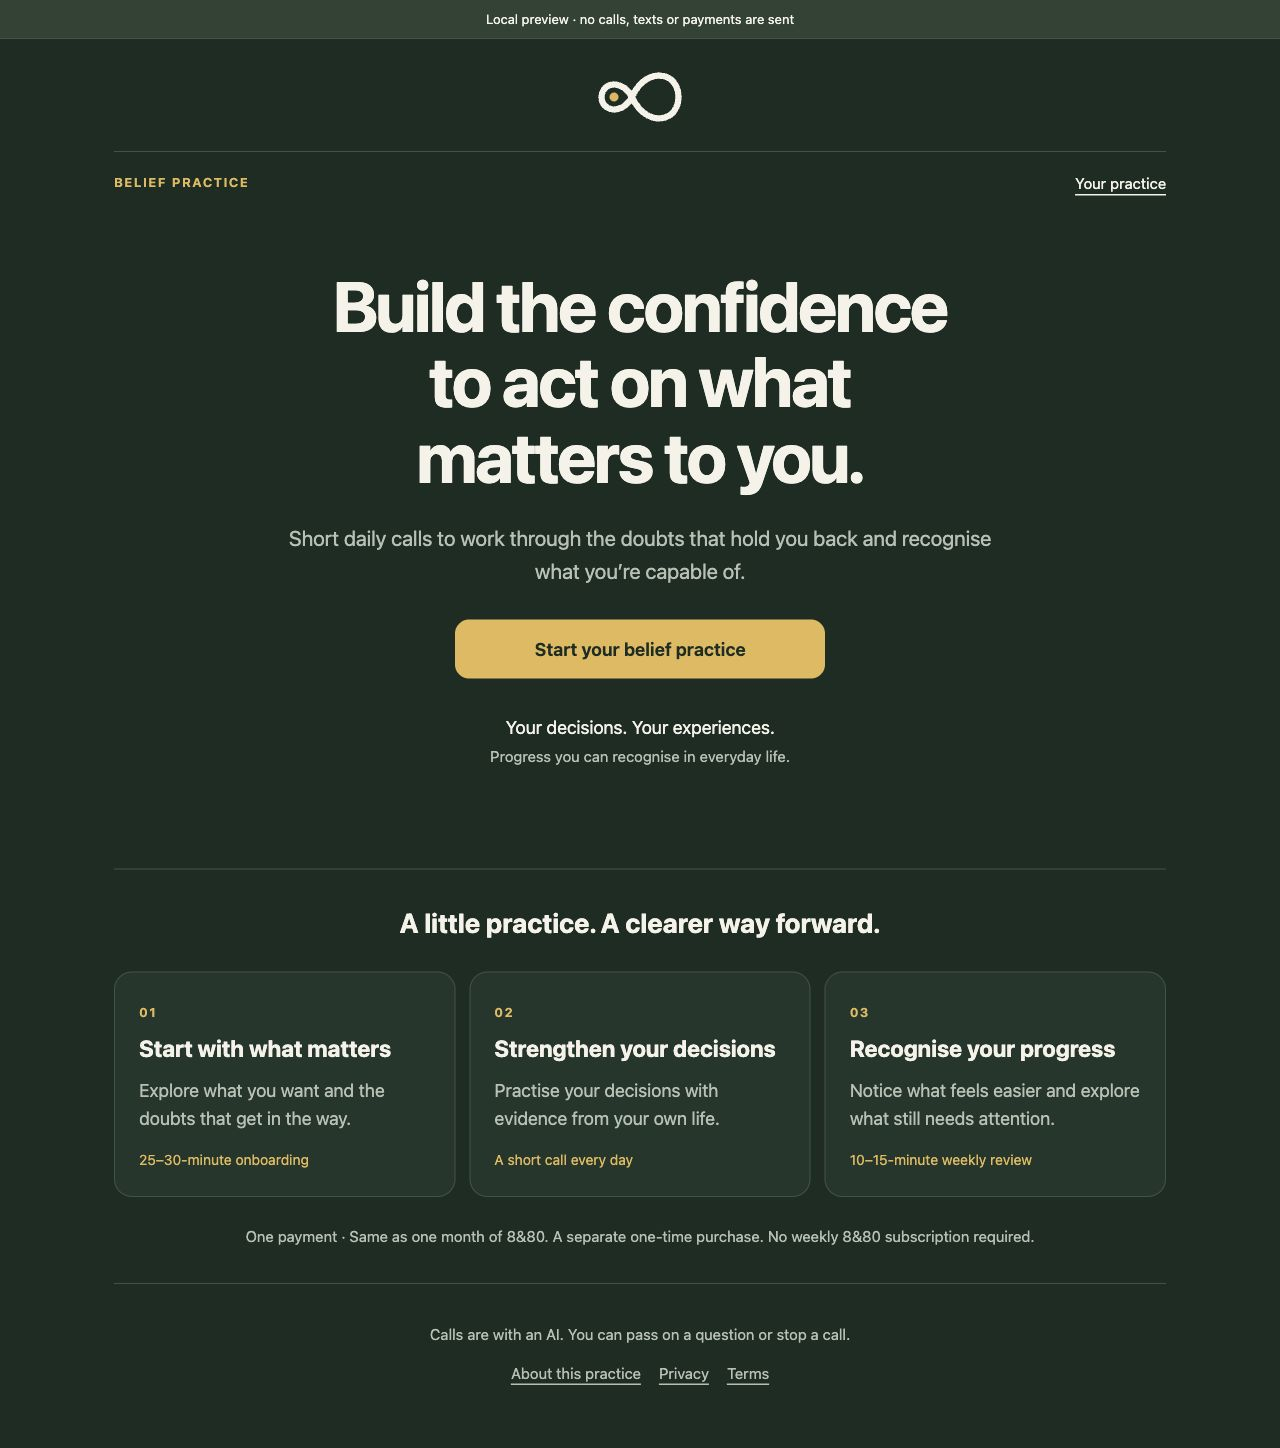
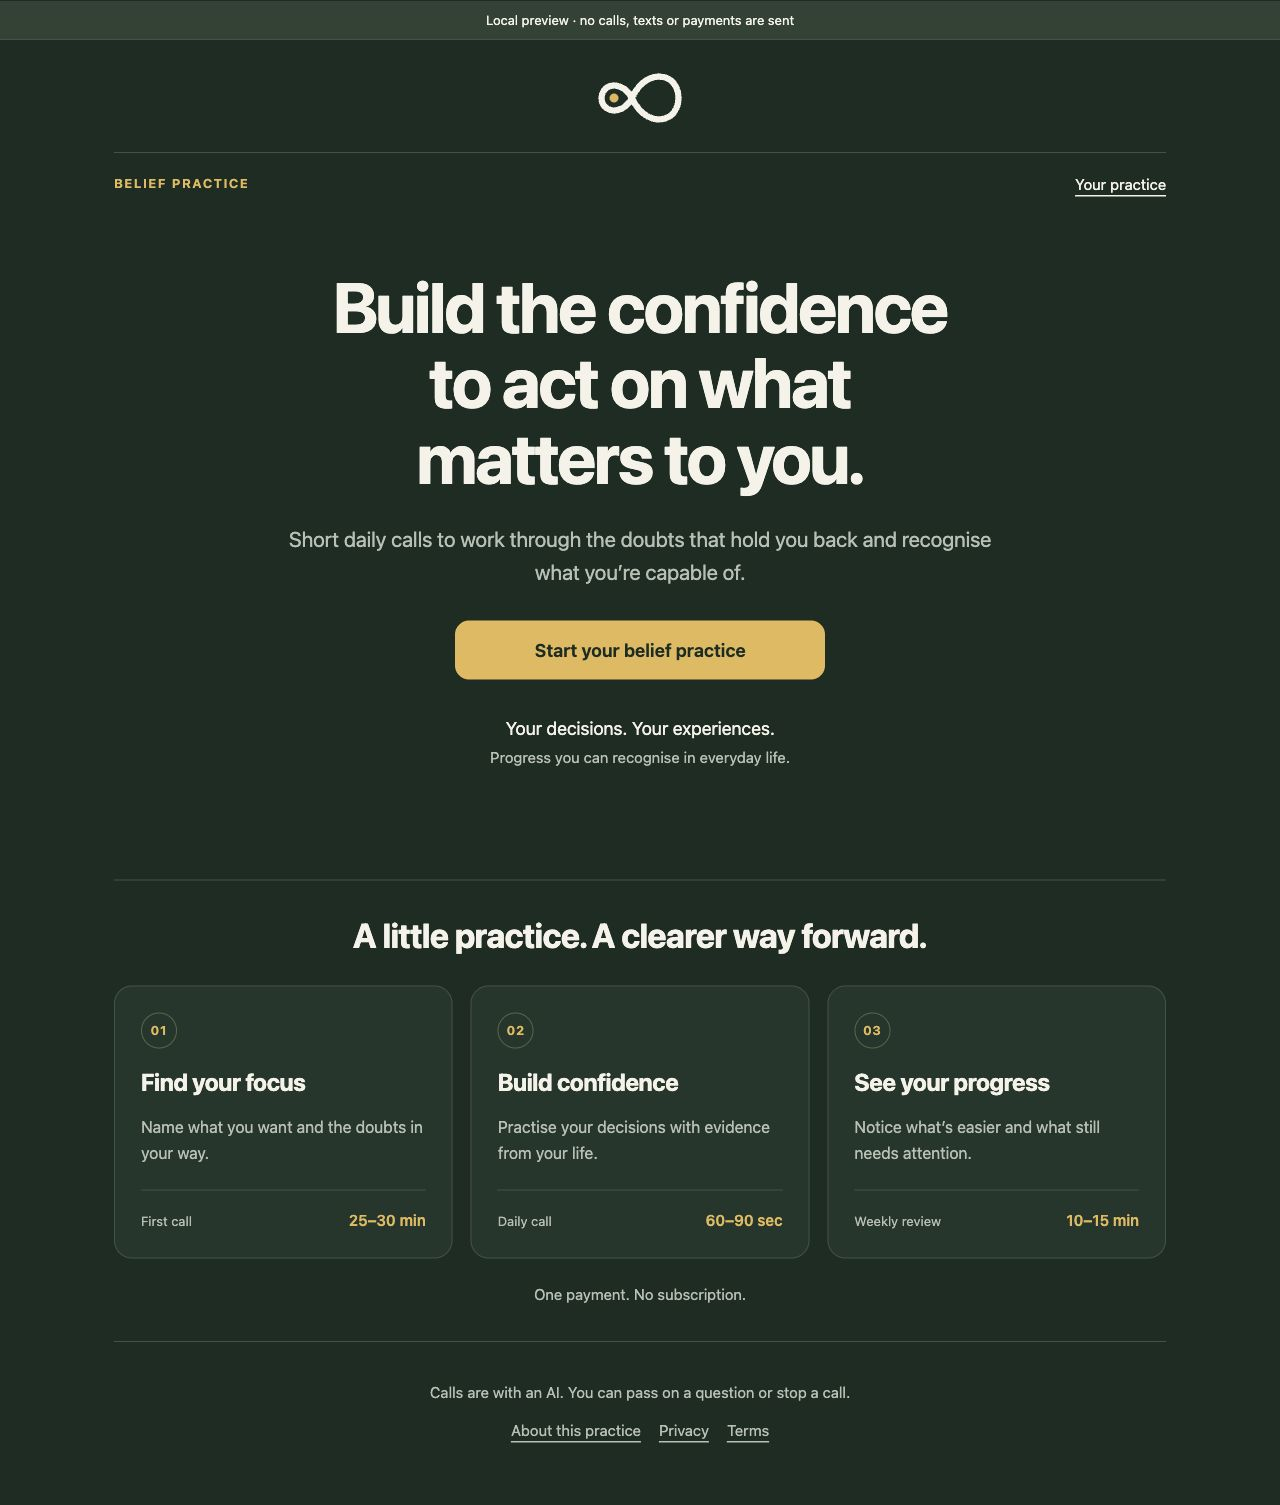
Balance the Beliefs journey steps across screen sizes

diff --git a/services/voice/src/beliefs/page.ts b/services/voice/src/beliefs/page.ts
@@ -11,6 +11,33 @@ export interface PageOptions {
 }
 export const escape = (v: unknown): string => String(v ?? '').replace(/[&<>"']/g, c => ({ '&': '&amp;', '<': '&lt;', '>': '&gt;', '"': '&quot;', "'": '&#39;' }[c]!));
 const css = `:root{color-scheme:dark;--bg:#192d23;--ink:#f5f2e8;--muted:#b6bfb4;--gold:#e4b852;--border:#405346;--panel:#21372b}*{box-sizing:border-box}body{margin:0;background:var(--bg);color:var(--ink);font:18px/1.55 -apple-system,BlinkMacSystemFont,'Segoe UI',sans-serif}a{color:inherit;text-underline-offset:5px}a:focus-visible,button:focus-visible,input:focus-visible,textarea:focus-visible,select:focus-visible,summary:focus-visible{outline:3px solid #9fcdff;outline-offset:4px}.shell{max-width:1100px;margin:auto;padding:32px 24px 64px}.brand{display:block;width:max-content;margin:0 auto 28px;text-decoration:none;font-size:32px;font-weight:750;letter-spacing:-1px}.brand .lockup{margin:0}.brand .mark{display:block;width:86px;height:52px}.sr{position:absolute;width:1px;height:1px;padding:0;margin:-1px;overflow:hidden;clip:rect(0,0,0,0);white-space:nowrap;border:0}.top{display:flex;justify-content:space-between;border-top:1px solid var(--border);padding-top:20px;font-size:15px}.eyebrow{color:var(--gold);letter-spacing:1.5px;text-transform:uppercase;font-size:13px;font-weight:650}.hero{text-align:center;padding:72px 0 32px}.hero h1{font-size:clamp(38px,6vw,70px);line-height:1.08;letter-spacing:-2px;max-width:850px;margin:0 auto 28px}.lead{color:var(--muted);font-size:21px;max-width:710px;margin:0 auto 32px}.button,button{display:inline-block;background:var(--gold);color:var(--bg);border:0;border-radius:14px;padding:18px 26px;font:inherit;font-size:18px;font-weight:650;line-height:1.3;text-decoration:none;text-align:center;cursor:pointer}.hero .button{min-width:min(100%,370px)}.secondary{background:transparent;color:var(--ink);border:1px solid var(--border)}.quiet{color:var(--muted);font-size:15px}.cards{display:grid;grid-template-columns:repeat(3,1fr);gap:14px;margin:28px 0}.card{background:var(--panel);border:1px solid var(--border);border-radius:18px;padding:24px}.card h2,.card h3{margin:10px 0;font-size:23px;line-height:1.3}.card p{color:var(--muted);margin:12px 0}.timing{font-size:14px;color:var(--gold)}.form,.account{max-width:690px;margin:46px auto}.form h1,.account h1{font-size:38px;line-height:1.15;letter-spacing:-1px}label{display:block;margin:22px 0 8px;font-weight:550}input,textarea,select{width:100%;padding:16px;background:transparent;color:var(--ink);border:1px solid var(--border);border-radius:12px;font:inherit}textarea{min-height:115px;resize:vertical}select option{background:var(--bg)}input[type=checkbox]{width:auto;margin:0 12px 0 0;accent-color:var(--gold)}.check{display:flex;align-items:flex-start;font-size:16px;font-weight:400}.check input{margin-top:6px;flex-shrink:0}.form button{width:100%;margin-top:25px}.row{display:grid;grid-template-columns:1fr 1fr;gap:20px}.notice{border:1px solid var(--gold);border-radius:12px;padding:16px;max-width:690px;margin:24px auto;color:var(--ink)}.preview{background:#304335;border-bottom:1px solid var(--border);padding:9px 16px;text-align:center;font-size:13px}.divider{border:0;border-top:1px solid var(--border);margin:32px 0}.back{display:inline-block;margin:28px 0 0;color:var(--muted);font-size:15px}.actions{display:flex;gap:12px;flex-wrap:wrap}.actions .button{flex:1}.decision{font-size:25px;color:var(--ink)!important;line-height:1.35}summary{cursor:pointer;padding:10px 0}.inline{display:inline-block;margin:0}.inline button{font-size:15px;padding:11px 16px}.spaced{margin:35px 0}.empty{padding:32px;border:1px dashed var(--border);border-radius:16px}.schedule-heading{text-align:center}fieldset{padding:0;border:0;margin:0 0 30px}legend{font-size:25px;font-weight:650;margin-bottom:16px}.score{width:130px}.footer{text-align:center;padding-top:24px;margin-top:35px;border-top:1px solid var(--border)}.footer a{margin:0 9px}.progress{display:flex;gap:8px;margin:26px 0}.progress span{height:4px;background:var(--border);flex:1;border-radius:4px}.progress .on{background:var(--gold)}@media(max-width:650px){.shell{padding:24px 20px 45px}.hero{padding:52px 0 24px}.hero h1{letter-spacing:-1px}.lead{font-size:18px}.cards,.row{grid-template-columns:1fr}.card{padding:22px}.form,.account{margin:32px auto}.form h1,.account h1{font-size:32px}.button{width:100%}.top{font-size:13px}.actions{flex-direction:column}}`;
+const journeyCss = `
+.journey{margin-top:42px;padding-top:34px;border-top:1px solid var(--border)}
+.journey>h2{max-width:650px;margin:0 auto 30px;text-align:center;font-size:clamp(26px,3vw,34px);line-height:1.2;letter-spacing:-.7px;text-wrap:balance}
+.journey-steps{list-style:none;padding:0;margin:0;display:grid;grid-template-columns:repeat(3,minmax(0,1fr));gap:18px}
+.journey-step{min-width:0;display:flex;flex-direction:column;gap:18px;padding:26px;background:var(--panel);border:1px solid var(--border);border-radius:18px}
+.step-number{display:grid;place-items:center;width:36px;height:36px;border:1px solid #596548;border-radius:50%;color:var(--gold);font-size:13px;font-weight:650;letter-spacing:.8px}
+.journey-step h3{margin:0;font-size:24px;line-height:1.25;letter-spacing:-.4px;text-wrap:balance}
+.step-description{flex:1;margin:0;color:var(--muted);font-size:16px;line-height:1.6}
+.step-timing{display:flex;align-items:baseline;justify-content:space-between;gap:12px;margin:6px 0 0;padding-top:18px;border-top:1px solid var(--border);font-size:13px;color:var(--muted)}
+.step-timing strong{color:var(--gold);font-size:15px;font-weight:600;white-space:nowrap}
+.journey-price{margin:24px 0 0;text-align:center}
+@media(max-width:900px){
+  .journey-steps{grid-template-columns:1fr;gap:12px}
+  .journey-step{display:grid;grid-template-columns:36px minmax(0,1fr) auto;gap:8px 20px;padding:22px}
+  .step-number{grid-column:1;grid-row:1/3}
+  .journey-step h3{grid-column:2;font-size:22px}
+  .step-description{grid-column:2}
+  .step-timing{grid-column:3;grid-row:1/3;align-self:center;display:flex;flex-direction:column;gap:3px;margin:0;padding:0 0 0 20px;border-top:0;border-left:1px solid var(--border)}
+}
+@media(max-width:560px){
+  .journey{margin-top:30px;padding-top:28px}
+  .journey>h2{margin-bottom:24px}
+  .journey-step{grid-template-columns:32px minmax(0,1fr);gap:10px 14px;padding:20px}
+  .step-number{width:32px;height:32px;grid-row:1/4}
+  .journey-step h3{font-size:21px}
+  .step-timing{grid-column:2;grid-row:3;flex-direction:row;justify-content:space-between;border-left:0;border-top:1px solid var(--border);padding:12px 0 0;margin-top:2px}
+}`;
 const field = (label: string, name: string, value = '', type = 'text', extra = ''): string => `<label for="${name}">${label}</label><input id="${name}" name="${name}" type="${type}" value="${escape(value)}" ${extra}>`;
 const area = (label: string, name: string, value = '', required = true): string => `<label for="${name}">${label}</label><textarea id="${name}" name="${name}" maxlength="2000" ${required ? 'required' : ''}>${escape(value)}</textarea>`;
 const link = (url: string, text: string, secondary = false): string => `<a class="button${secondary ? ' secondary' : ''}" href="${escape(url)}">${text}</a>`;
@@ -27,11 +54,11 @@ export function beliefPage(screen: Screen, o: PageOptions = {}): string {
   const p = o.practice;
   const items = p ? activeBeliefs(p) : [];
   let body = '';
-  if (screen === 'landing') body = `<section class="hero"><h1>Build the confidence<br>to act on what<br>matters to you.</h1><p class="lead">Short daily calls to work through the doubts that hold you back and recognise what you’re capable of.</p>${o.preview || o.available ? link('/beliefs/join', 'Start your belief practice') : '<p class="notice">Enrollment opens when the paid pilot is ready.</p>'}<p class="spaced">Your decisions. Your experiences.<br><span class="quiet">Progress you can recognise in everyday life.</span></p></section><hr class="divider"><h2 style="text-align:center">A little practice. A clearer way forward.</h2><div class="cards">${[
-    ['01', 'Start with what matters', 'Explore what you want and the doubts that get in the way.', '25–30-minute onboarding'],
-    ['02', 'Strengthen your decisions', 'Practise your decisions with evidence from your own life.', 'A short call every day'],
-    ['03', 'Recognise your progress', 'Notice what feels easier and explore what still needs attention.', '10–15-minute weekly review'],
-  ].map(([n, title, text, timing]) => `<article class="card"><span class="eyebrow">${n}</span><h2>${title}</h2><p>${text}</p><span class="timing">${timing}</span></article>`).join('')}</div><p class="quiet" style="text-align:center">${o.price && !o.preview ? `${escape(o.price)} once.` : 'One payment.'} No subscription.</p>`;
+  if (screen === 'landing') body = `<section class="hero"><h1>Build the confidence<br>to act on what<br>matters to you.</h1><p class="lead">Short daily calls to work through the doubts that hold you back and recognise what you’re capable of.</p>${o.preview || o.available ? link('/beliefs/join', 'Start your belief practice') : '<p class="notice">Enrollment opens when the paid pilot is ready.</p>'}<p class="spaced">Your decisions. Your experiences.<br><span class="quiet">Progress you can recognise in everyday life.</span></p></section><section class="journey" aria-labelledby="journey-heading"><h2 id="journey-heading">A little practice. A clearer way forward.</h2><ol class="journey-steps" role="list">${[
+    ['01', 'Find your focus', 'Name what you want and the doubts in your way.', 'First call', '25–30 min'],
+    ['02', 'Build confidence', 'Practise your decisions with evidence from your life.', 'Daily call', '60–90 sec'],
+    ['03', 'See your progress', 'Notice what’s easier and what still needs attention.', 'Weekly review', '10–15 min'],
+  ].map(([n, title, text, rhythm, duration]) => `<li class="journey-step"><span class="step-number" aria-hidden="true">${n}</span><h3>${title}</h3><p class="step-description">${text}</p><p class="step-timing"><span>${rhythm}</span><strong>${duration}</strong></p></li>`).join('')}</ol><p class="quiet journey-price">${o.price && !o.preview ? `${escape(o.price)} once.` : 'One payment.'} No subscription.</p></section>`;
   if (screen === 'join') body = `<section class="form">${back('/beliefs')}<h1>${o.access ? 'Open your belief practice' : 'Start with you'}</h1><p class="quiet">${o.access ? 'Verify your phone to open your private decisions and evidence.' : 'First, verify the number you want us to call.'}</p>${form(o.access ? '/beliefs/access' : '/beliefs/join',
     (o.access ? '' : field('What shall we call you?', 'name', '', 'text', 'autocomplete="given-name" maxlength="80"') + field('Contact email (optional)', 'email', '', 'email', 'autocomplete="email"')) +
     field('Phone number', 'phone', '+47', 'tel', 'required autocomplete="tel" maxlength="30"') +
@@ -69,7 +96,7 @@ export function beliefPage(screen: Screen, o: PageOptions = {}): string {
   if (screen === 'daily') body = `<section class="form">${back('/beliefs/account','Your practice')}<h1>A moment for what matters</h1><p class="quiet">Say each decision aloud. Recall one experience that supports it, and leave room for what is still difficult.</p>${items.map(b => form('/beliefs/action',hidden('action','practice')+hidden('id',b.id)+`<p class="decision">${escape(b.decision)}</p>`+area('What’s one experience—recent or older—that supports it?', 'evidence', '', false)+area('What still feels difficult, alongside that?', 'balance','',false)+'<label class="check"><input type="checkbox" name="passed" value="yes"><span>Leave these questions today.</span></label>','Save my reflection',o)).join('')}</section>`;
   if (screen === 'weekly') body = `<section class="form">${back('/beliefs/account','Your practice')}<h1>What’s becoming easier?</h1><p class="quiet">Look at what your decisions have helped you do, and what still needs attention.</p>${items.some(b => b.reviews.at(-1)?.week === (o.week ?? 0)) ? '<p class="notice">Your reviews for this week are saved.</p>' : ''}${items.filter(b => b.reviews.at(-1)?.week !== (o.week ?? 0)).map(b => form('/beliefs/action',hidden('action','review')+hidden('id',b.id)+hidden('week',o.week??0)+`<p class="decision">${escape(b.decision)}</p>`+area('Where did this help you take a step? Where did the old thought still get in the way?', 'reflection')+field('How much pull does the old thought have now? 0 = none, 10 = very strong.', 'score','','number','required min="0" max="10" step="1"')+'<label class="check"><input type="checkbox" name="confirmed" value="yes" required><span>This is the score I choose.</span></label>','Save my weekly review',o)).join('')}</section>`;
   const title = screen === 'landing' ? 'Build the confidence to act on what matters' : 'Your belief practice';
-  return `<!doctype html><html lang="en"><head><meta charset="utf-8"><meta name="viewport" content="width=device-width,initial-scale=1"><meta name="robots" content="noindex"><title>${title} · 8&80</title><style>${css}</style></head><body>${o.preview ? '<div class="preview">Local preview · no calls, texts or payments are sent</div>' : ''}<main class="shell"><a class="brand" href="/beliefs" aria-label="8 and 80 belief practice home">${MARK}</a><nav class="top" aria-label="Main"><span class="eyebrow">Belief practice</span><a href="/beliefs/account">Your practice</a></nav>${o.note ? `<p class="notice" role="status">${escape(o.note)}</p>` : ''}${body}<footer class="footer quiet"><p>Calls are with an AI. You can pass on a question or stop a call.</p>${o.support ? `<p>Need help? <a href="${escape(o.support)}">Contact us</a>${o.supportHours ? ` · ${escape(o.supportHours)}` : ''}</p>` : ''}<a href="/beliefs/about">About this practice</a><a href="/privacy">Privacy</a><a href="/terms">Terms</a>${!o.preview ? '<a href="/start">Explore weekly 8&80</a>' : ''}</footer></main></body></html>`;
+  return `<!doctype html><html lang="en"><head><meta charset="utf-8"><meta name="viewport" content="width=device-width,initial-scale=1"><meta name="robots" content="noindex"><title>${title} · 8&80</title><style>${css}${journeyCss}</style></head><body>${o.preview ? '<div class="preview">Local preview · no calls, texts or payments are sent</div>' : ''}<main class="shell"><a class="brand" href="/beliefs" aria-label="8 and 80 belief practice home">${MARK}</a><nav class="top" aria-label="Main"><span class="eyebrow">Belief practice</span><a href="/beliefs/account">Your practice</a></nav>${o.note ? `<p class="notice" role="status">${escape(o.note)}</p>` : ''}${body}<footer class="footer quiet"><p>Calls are with an AI. You can pass on a question or stop a call.</p>${o.support ? `<p>Need help? <a href="${escape(o.support)}">Contact us</a>${o.supportHours ? ` · ${escape(o.supportHours)}` : ''}</p>` : ''}<a href="/beliefs/about">About this practice</a><a href="/privacy">Privacy</a><a href="/terms">Terms</a>${!o.preview ? '<a href="/start">Explore weekly 8&80</a>' : ''}</footer></main></body></html>`;
 }
 
 export function aboutPage(o: PageOptions = {}): string {
